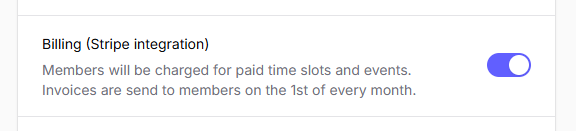
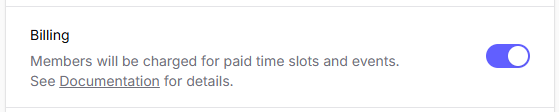
docs: update some sections and images

diff --git a/docs/billing.md b/docs/billing.md
@@ -1,23 +1,33 @@
 # Billing
 
-PickleTime is integrated with Stripe to collect payments from members.
-
-You can also collect payments by other means if you want, and manually set the payment status of your members.
+PickleTime can track charges for your members with or without Stripe. Stripe is optional: if your club does not want to use Stripe, members can pay you by another method.
 
 !!! info "Feature Toggle"
 
-    The Billing feature can be enabled or disabled at any time from the admin dashboard.
+    The Billing feature can be enabled or disabled at any time from the admin panel, under **Setup -> Features**.
 
     ![Billing feature toggle](images/billing-feature-toggle.png)
 
+## Stripe-less Billing
+
+You can still track member charges without connecting Stripe. When you receive a payment, you can mark it as paid from the Billing page in the admin panel. For example, you can record payments received by Interac or cash.
+
+![Billing members payments](images/billing-members-payments.png)
+
+To disable Stripe, turn off this toggle. You can also specify payment instructions, these will be shown on the members payments page.
+
+![Billing payment instructions](images/billing-payment-instructions.png)
+
 ## Memberships
 
-You can also setup a club membership for your members. Memberships billing is fully integrated.
+You can also setup a club monthly/yearly membership for your members. Membership billing is fully integrated, and charges can be paid through Stripe or recorded as paid manually when you receive payment by another method.
 
-## Members Ongoing Balance
+## Members Pending Payments
 
-When a member signs up for an event, like a tournament or a clinic, the [cost](events/events-settings.md#event-cost) is automatically added to their ongoing balance. Think of it like a running tab just for their event fees.
+When a member has a pending charge, this message is shown on his home page.
 
-If you receive payments through other methods (like cash or e-transfer), you can manually adjust a member's balance to reflect those payments.
+![Pending payments section](images/pending-payments-section.png)
 
-![Ongoing Balance](images/ongoing-balance.png)
+Members can see their pending charges and see a history of their payments. If Stripe payments are disabled, the **Pay Now** button will be hidden.
+
+![Pending payments](images/pending-payments.png)

diff --git a/docs/index.md b/docs/index.md
@@ -10,41 +10,41 @@ Use the top menu to browse the docs, or use the links below.
 
     ---
 
-    [:octicons-arrow-right-24: Invite Members](members/index.md#invite-members)
+    :octicons-arrow-right-24: [Invite Members](members/index.md#invite-members)
 
-    [:octicons-arrow-right-24: Extra Fields](members/index.md#extra-fields)
+    :octicons-arrow-right-24: [Extra Fields](members/index.md#extra-fields)
 
-    [:octicons-arrow-right-24: Groups](members/groups.md)
+    :octicons-arrow-right-24: [Groups](members/groups.md)
 
-    [:octicons-arrow-right-24: Player Levels](members/player-levels.md)
+    :octicons-arrow-right-24: [Player Levels](members/player-levels.md)
 
 -   :octicons-calendar-16: __Events__
 
     ---
 
-    [:octicons-arrow-right-24: Events Management](events/events-management.md)
+    :octicons-arrow-right-24: [Events Management](events/events-management.md)
 
-    [:octicons-arrow-right-24: Events Settings](events/events-settings.md)
+    :octicons-arrow-right-24: [Events Settings](events/events-settings.md)
 
-    [:octicons-arrow-right-24: Time Slots](events/time-slots.md)
+    :octicons-arrow-right-24: [Time Slots](events/time-slots.md)
 
 -   :octicons-sun-16: __Seasons__
 
     ---
 
-    [:octicons-arrow-right-24: Overview](seasons/index.md)
+    :octicons-arrow-right-24: [Overview](seasons/index.md)
 
-    [:octicons-arrow-right-24: Season Calendar](seasons/season-calendar.md)
+    :octicons-arrow-right-24: [Season Calendar](seasons/season-calendar.md)
 
 -   :octicons-book-16: __Other__
 
     ---
 
-    [:octicons-credit-card-24: Billing](billing.md)
+    :octicons-arrow-right-24: [Billing](billing.md)
 
-    [:octicons-comment-24: Messaging](messaging.md)
+    :octicons-arrow-right-24: [Messaging](messaging.md)
 
-    [:octicons-bell-24: Push Notifications](push-notifications.md)
+    :octicons-arrow-right-24: [Push Notifications](push-notifications.md)
 
 </div>
 

diff --git a/docs/events/events-settings.md b/docs/events/events-settings.md
@@ -10,9 +10,11 @@ To prevent members from joining a waitlist when an event reaches capacity, you m
 
 ![Waitlist Disabled](../images/events/waitlist-disabled.png)
 
-## Joining Unlocks On
+## Registration Opens
 
 You may restrict when users can join an event by specifying an unlock date. Before this date, users attempting to join will see a message indicating when registration will become available.
+
+![Not authorized message](../images/events/not-authorized-registration.png)
 
 ## Event Cost
 
@@ -23,5 +25,5 @@ Exceptions:
 * Participants are not charged if the event is canceled.
 * Members who remain on the waitlist are not charged.
 
-The event charge will be added to each member's [ongoing balance](../billing.md#members-ongoing-balance).
+The event charge will be added to each member's [pending payments](../billing.md#members-pending-payments).
 

diff --git a/docs/seasons/season-calendar.md b/docs/seasons/season-calendar.md
@@ -42,7 +42,7 @@ In this mode:
 - Once confirmed and activated, the member is charged and added as a participant to all future events in the selected time slot.
 
 !!! warning "Season Deals Disabled"
-  Season Deals do not apply in Waitlist mode. Rebates are only calculated for time slots using the **First Come, First Serve** registration type.
+    Season Deals do not apply in Waitlist mode. Rebates are only calculated for time slots using the **First Come, First Serve** registration type.
 
 !!! info "Transparent Waitlist"
     The waitlist offers visibility and fairness: members know where they stand and can plan accordingly.

diff --git a/docs/events/index.md b/docs/events/index.md
@@ -7,9 +7,9 @@ Administrators and event organizers can export the list of participants from any
 ### How to Export
 
 1. Navigate to the event page
-2. Click on the "Actions" button group
-3. Select "Export Participants" from the dropdown menu
-4. The Excel file containing all participant information will be downloaded automatically
+3. From the **Actions** button group, select **Participants**
+4. The participants table will open. Click the **Export** button
+5. The Excel file containing all participant information will be downloaded automatically
 
 The exported file includes participant names and player levels.
 

diff --git a/docs/events/time-slots.md b/docs/events/time-slots.md
@@ -1,8 +1,10 @@
 # :fontawesome-solid-rotate: Time Slots
 
-When creating an event, you may designate it as recurring by selecting the desired frequency.
+![Create time slot](../images/create-time-slot-action.png)
 
-![Recurrence](../images/events/recurrence.png)
+When creating a time slot, you have to set the desired recurrence.
+
+![Recurrence](../images/time-slot-recurrance.png)
 
 This action will generate a series of linked events for streamlined management. Each event within the time slot can be managed independently.
 

diff --git a/docs/push-notifications.md b/docs/push-notifications.md
@@ -11,6 +11,8 @@ It is highly recommended that members enable Push Notifications to stay informed
 
 ## Setup for iPhone and iPad Users
 
+[Turn a website into an app in Safari on iPhone](https://support.apple.com/en-ca/guide/iphone/iphea86e5236/27/ios/27){:target="_blank"}
+
 !!! warning "Important Setup Step"
     
     If you're using an iPhone or iPad, you must add the PickleTime web app to your Home Screen **before** you can enable Push Notifications.

diff --git a/docs/events/events-management.md b/docs/events/events-management.md
@@ -60,7 +60,7 @@ Reminders are automatically sent to all members who are attending an event (excl
 
 ## :fontawesome-solid-user-tie: Organizers
 
-Event organizers are members assigned to oversee and manage specific events.
+Organizers are members assigned to oversee and manage specific events or time slots.
 
 As an organizer, they are responsible for ensuring the event runs smoothly. (1)
 { .annotate }

diff --git a/README.md b/README.md
@@ -3,3 +3,12 @@
 Deployed at <https://docs.pickletime.app>
 
 Documentation for [PickleTime](https://pickletime.app)
+
+## Local serve
+
+```
+python3 -m venv .venv
+source .venv/bin/activate
+pip install -r requirements.txt
+zensical serve
+```
